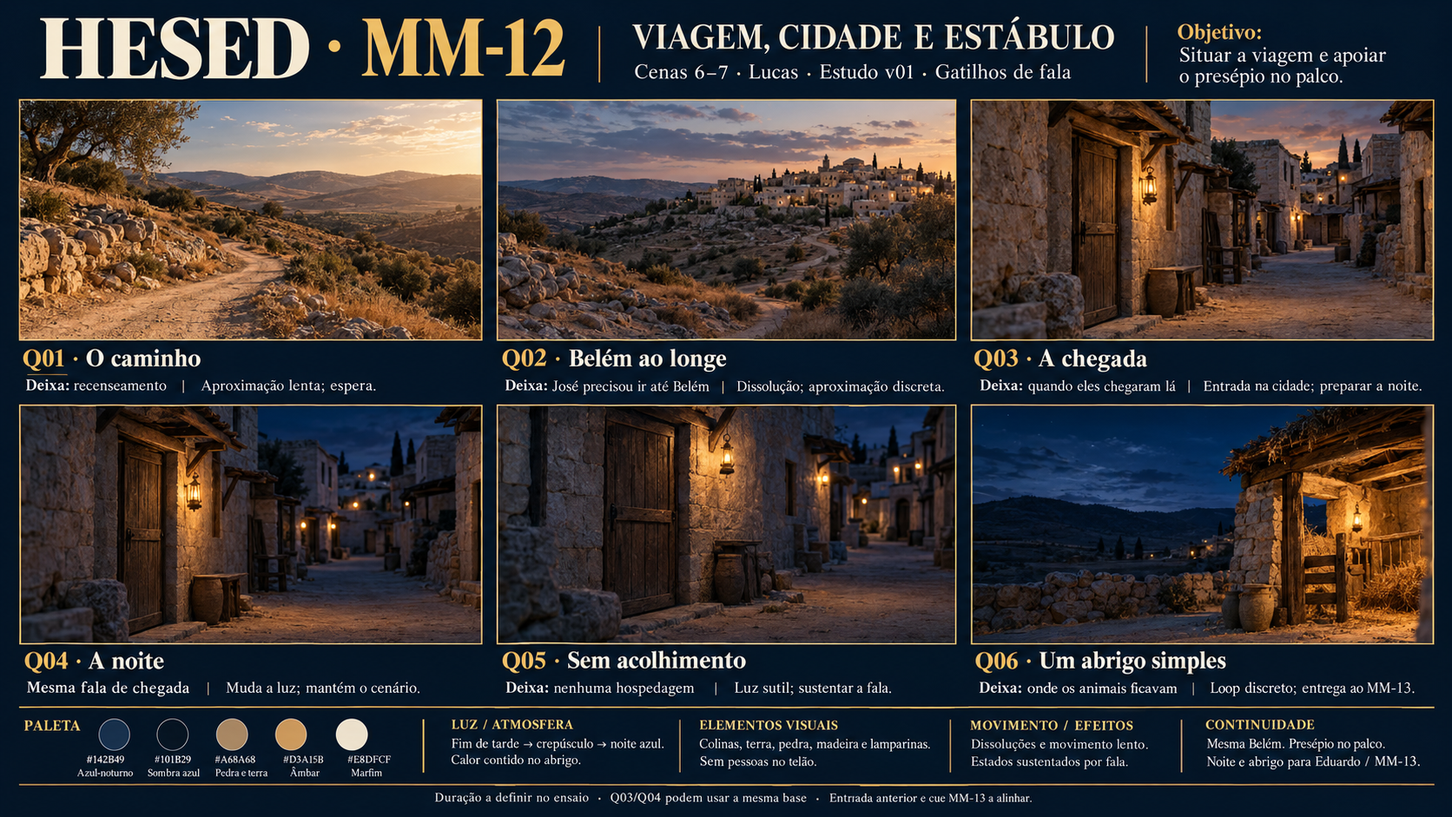
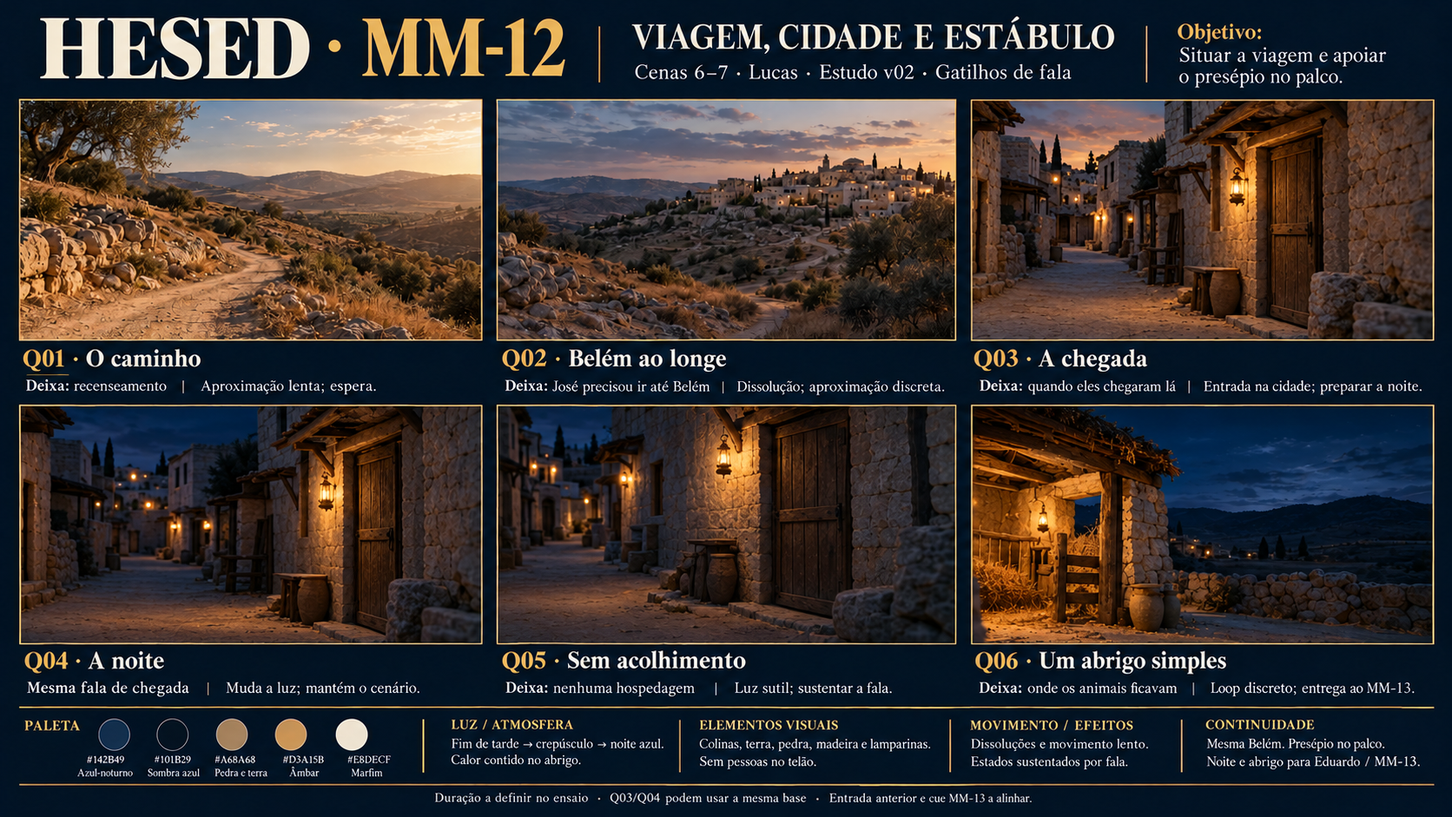
Corrige continuidade MM-12 com estábulo à esquerda e caminho espelhado

diff --git a/storyboards/briefings-dos-quadros.md b/storyboards/briefings-dos-quadros.md
@@ -1126,7 +1126,9 @@ Referência única V03, aprovada pelo usuário ao reenviar a imagem com renda; v
 
 ## MM-12 · Viagem, cidade e estábulo
 
-**Estudo v01 · 24/10/2026 · Codex, a pedido do usuário; aprovação pendente.** Responsável: Lucas. Cenas 6–7. [Ficha-resumo](MM-12/README.md).
+**Estudo v02 · 24/10/2026 · Codex, a pedido do usuário; aprovação pendente.** Responsável: Lucas. Cenas 6–7. [Ficha-resumo](MM-12/README.md).
+
+**Direção espacial D-44 (24/10/2026):** usuário determina Q03/Q04/Q05 espelhados, caminho diagonal da direita para a esquerda e Q06 com estábulo à esquerda da imagem, por logística do palco. Q01/Q02 permanecem. Inverter também fontes de luz e objetos junto dos ambientes, sem espelhar títulos/legendas. Direção confirmada, nova imagem ainda não aprovada.
 
 **Contrato visual proposto:** sequência narrativa espacial controlada por falas variáveis. Palco contém Maria/José, presépio e nascimento; telão situa ambientes. Pessoas são opcionais pelo briefing; neste estudo não são previstas. Não duplicar bebê/manjedoura no fundo. Seis estados: estrada → Belém → cidade → noite → sem hospedagem → abrigo. Sem música própria, segundos ou forma de onda. Q03/Q04 podem ser a mesma base em dois estados de luz.
 
@@ -1138,7 +1140,7 @@ Referência única V03, aprovada pelo usuário ao reenviar a imagem com renda; v
 
 ### MM-12-Q01 · O caminho
 
-- **Situação / função visual:** proposta v01; sequência de ambientes. Instalar distância e deslocamento no recenseamento.
+- **Situação / função visual:** proposta v02; sequência de ambientes. Instalar distância e deslocamento no recenseamento.
 - **Palco / pessoas no telão:** montagem e atuação do núcleo bíblico no palco; pessoas não previstas nesta proposta, opcionais pelo briefing.
 - **Imagem-base:** Estrada sinuosa de terra entre colinas secas da Judeia, sem pessoas, cidade ainda não visível.
 - **Composição:** Plano geral, câmera baixa moderada, trilha do canto inferior esquerdo ao horizonte direito; camadas simples e margem para reenquadrar.
@@ -1148,7 +1150,7 @@ Referência única V03, aprovada pelo usuário ao reenviar a imagem com renda; v
 - **Gatilho / tempo:** “Naquela época, foi decretado...” e espera no comentário sobre organização política. Duração a definir no ensaio, sem segundos medidos.
 - **Evitar:** Caravanas, protagonistas, decreto escrito, castelos, humor ou viagem acelerada.
 - **Referências reais:** MM-07-Q01.JPG e MM-13-Q01.JPG inspecionados; sem bases individuais de MM-12 aceitas.
-- **Arquivo / versão / feedback:** briefing v01; base individual não gerada. Incluído na [prancha v01](<MM-12/STB MM12.png>), PNG 1672 × 941; aprovação pendente.
+- **Arquivo / versão / feedback:** briefing v02; base individual não gerada. Incluído na [prancha v02](<MM-12/STB MM12.png>), PNG 1672 × 941; aprovação pendente.
 
 **Prompt proposto da imagem-base (ainda não enviado individualmente):**
 
@@ -1156,45 +1158,45 @@ Referência única V03, aprovada pelo usuário ao reenviar a imagem com renda; v
 
 ### MM-12-Q02 · Belém ao longe
 
-- **Situação / função visual:** proposta v01; sequência de ambientes. Identificar destino da viagem sem encenar Maria e José.
+- **Situação / função visual:** proposta v02; sequência de ambientes. Identificar destino da viagem sem encenar Maria e José.
 - **Palco / pessoas no telão:** montagem e atuação do núcleo bíblico no palco; pessoas não previstas nesta proposta, opcionais pelo briefing.
 - **Imagem-base:** Povoado compacto de pedra clara no terço direito de uma encosta; estrada de Q01 conduz até ele, poucas luzes âmbar.
 - **Composição:** Plano geral elevado, caminho em primeiro plano, cidade ao fundo, céu amplo sem destaque sobrenatural.
 - **Luz e cor:** Fim de tarde mais frio que Q01; luz suave pela direita, brilho quente discreto em poucas aberturas.
-- **Continuidade:** Mesmo relevo, materiais e sentido de Q01; a cidade deverá orientar a rua de Q03.
+- **Continuidade:** Mesmo relevo, materiais e sentido de Q01; Q03 passa ao interior da cidade com percurso invertido da direita para a esquerda por D-44.
 - **Animação e transição:** Dissolução e aproximação lenta na entrada; estabilizar para esperar; sem atravessar o destino durante o loop.
 - **Gatilho / tempo:** “José, que era noivo de Maria, precisou ir até Belém…”; sustentar a interrupção sobre gravidez. Duração a definir no ensaio, sem segundos medidos.
 - **Evitar:** Rio ou torres copiados da referência, arquitetura medieval, personagens obrigatórios, estrela protagonista.
 - **Referências reais:** MM-07-Q01.JPG e MM-13-Q01.JPG inspecionados; sem bases individuais de MM-12 aceitas.
-- **Arquivo / versão / feedback:** briefing v01; base individual não gerada. Incluído na [prancha v01](<MM-12/STB MM12.png>), PNG 1672 × 941; aprovação pendente.
+- **Arquivo / versão / feedback:** briefing v02; base individual não gerada. Incluído na [prancha v02](<MM-12/STB MM12.png>), PNG 1672 × 941; aprovação pendente.
 
 **Prompt proposto da imagem-base (ainda não enviado individualmente):**
 
-> Uma única imagem-base limpa MM-12-Q02, HESED 2026, realista e cinematográfica, reverente e legível à distância. Povoado compacto de pedra clara no terço direito de uma encosta; estrada de Q01 conduz até ele, poucas luzes âmbar. Plano geral elevado, caminho em primeiro plano, cidade ao fundo, céu amplo sem destaque sobrenatural. Luz: Fim de tarde mais frio que Q01; luz suave pela direita, brilho quente discreto em poucas aberturas. Mesmo relevo, materiais e sentido de Q01; a cidade deverá orientar a rua de Q03. Sem pessoas, texto, números, grade, moldura, colagem ou marcas-d'água. Sem elementos modernos ou fantasia medieval. Evitar: Rio ou torres copiados da referência, arquitetura medieval, personagens obrigatórios, estrela protagonista. Descrever um único instante; movimento será feito na edição.
+> Uma única imagem-base limpa MM-12-Q02, HESED 2026, realista e cinematográfica, reverente e legível à distância. Povoado compacto de pedra clara no terço direito de uma encosta; estrada de Q01 conduz até ele, poucas luzes âmbar. Plano geral elevado, caminho em primeiro plano, cidade ao fundo, céu amplo sem destaque sobrenatural. Luz: Fim de tarde mais frio que Q01; luz suave pela direita, brilho quente discreto em poucas aberturas. Mesmo relevo, materiais e sentido de Q01; Q03 passa ao interior da cidade com percurso invertido da direita para a esquerda por D-44. Sem pessoas, texto, números, grade, moldura, colagem ou marcas-d'água. Sem elementos modernos ou fantasia medieval. Evitar: Rio ou torres copiados da referência, arquitetura medieval, personagens obrigatórios, estrela protagonista. Descrever um único instante; movimento será feito na edição.
 
 ### MM-12-Q03 · A chegada
 
-- **Situação / função visual:** proposta v01; sequência de ambientes. Passar da paisagem ao interior da mesma cidade.
+- **Situação / função visual:** proposta v02; sequência de ambientes. Passar da paisagem ao interior da mesma cidade.
 - **Palco / pessoas no telão:** montagem e atuação do núcleo bíblico no palco; pessoas não previstas nesta proposta, opcionais pelo briefing.
-- **Imagem-base:** Rua estreita de terra entre casas baixas de pedra e reboco; porta de madeira à esquerda, percurso livre à direita, crepúsculo.
+- **Imagem-base:** Rua estreita de terra entre casas baixas de pedra e reboco; porta de madeira à direita, percurso diagonal da direita para a esquerda, crepúsculo.
 - **Composição:** Plano aberto à altura do olhar, rua em profundidade, portas e vãos legíveis; sem pessoas.
-- **Luz e cor:** Crepúsculo azul-terroso, luz residual pela direita e poucas lamparinas discretas.
-- **Continuidade:** Mesma Belém de Q02. Fixar câmera, porta esquerda, volumes e posição das lamparinas para Q04.
+- **Luz e cor:** Crepúsculo azul-terroso, luz residual pela esquerda após espelhamento e poucas lamparinas discretas.
+- **Continuidade:** Mesma Belém de Q02. Fixar câmera, porta à direita, volumes e posição das lamparinas para Q04.
 - **Animação e transição:** Dissolução de Q02; Q04 será mudança de luz desta base se possível. Não fazer troca de cidade.
 - **Gatilho / tempo:** “E quando eles chegaram lá…”; subdivisão da fala é proposta a validar. Duração a definir no ensaio, sem segundos medidos.
 - **Evitar:** Rua cheia, atores digitais, portas modernas, outra geografia ou grandes multidões.
 - **Referências reais:** MM-07-Q01.JPG e MM-13-Q01.JPG inspecionados; sem bases individuais de MM-12 aceitas.
-- **Arquivo / versão / feedback:** briefing v01; base individual não gerada. Incluído na [prancha v01](<MM-12/STB MM12.png>), PNG 1672 × 941; aprovação pendente.
+- **Arquivo / versão / feedback:** briefing v02; base individual não gerada. Incluído na [prancha v02](<MM-12/STB MM12.png>), PNG 1672 × 941; aprovação pendente.
 
 **Prompt proposto da imagem-base (ainda não enviado individualmente):**
 
-> Uma única imagem-base limpa MM-12-Q03, HESED 2026, realista e cinematográfica, reverente e legível à distância. Rua estreita de terra entre casas baixas de pedra e reboco; porta de madeira à esquerda, percurso livre à direita, crepúsculo. Plano aberto à altura do olhar, rua em profundidade, portas e vãos legíveis; sem pessoas. Luz: Crepúsculo azul-terroso, luz residual pela direita e poucas lamparinas discretas. Mesma Belém de Q02. Fixar câmera, porta esquerda, volumes e posição das lamparinas para Q04. Sem pessoas, texto, números, grade, moldura, colagem ou marcas-d'água. Sem elementos modernos ou fantasia medieval. Evitar: Rua cheia, atores digitais, portas modernas, outra geografia ou grandes multidões. Descrever um único instante; movimento será feito na edição.
+> Uma única imagem-base limpa MM-12-Q03, HESED 2026, realista e cinematográfica, reverente e legível à distância. Rua estreita de terra entre casas baixas de pedra e reboco; porta de madeira à direita, percurso diagonal da direita para a esquerda, crepúsculo. Plano aberto à altura do olhar, rua em profundidade, portas e vãos legíveis; sem pessoas. Luz: Crepúsculo azul-terroso, luz residual pela esquerda após espelhamento e poucas lamparinas discretas. Mesma Belém de Q02. Fixar câmera, porta à direita, volumes e posição das lamparinas para Q04. Sem pessoas, texto, números, grade, moldura, colagem ou marcas-d'água. Sem elementos modernos ou fantasia medieval. Evitar: Rua cheia, atores digitais, portas modernas, outra geografia ou grandes multidões. Descrever um único instante; movimento será feito na edição.
 
 ### MM-12-Q04 · A noite
 
-- **Situação / função visual:** proposta v01; sequência de ambientes. Estabelecer noite sem prolongar a fala com um novo passeio.
+- **Situação / função visual:** proposta v02; sequência de ambientes. Estabelecer noite sem prolongar a fala com um novo passeio.
 - **Palco / pessoas no telão:** montagem e atuação do núcleo bíblico no palco; pessoas não previstas nesta proposta, opcionais pelo briefing.
-- **Imagem-base:** Exatamente a rua de Q03, mesma porta à esquerda e percurso à direita; céu azul-noturno e lamparinas acesas.
+- **Imagem-base:** Exatamente a rua de Q03, mesma porta à direita e percurso da direita para a esquerda; céu azul-noturno e lamparinas acesas.
 - **Composição:** Mesma câmera, perspectiva e volumes de Q03; referência de composição a reutilizar quando existir uma base aceita.
 - **Luz e cor:** Ambiente azul-noturno, sombra azul legível, pequenos focos âmbar; evitar escurecimento que esconda as casas.
 - **Continuidade:** Não regenerar outra arquitetura; preferência por tratar a luz da base Q03.
@@ -1202,17 +1204,17 @@ Referência única V03, aprovada pelo usuário ao reenviar a imagem com renda; v
 - **Gatilho / tempo:** Entre “chegaram lá…” e “não tinha lugar pra ficar”; mesma deixa de Q03, sem pausa nova. Duração a definir no ensaio, sem segundos medidos.
 - **Evitar:** Time-lapse rápido, estrelas girando, luar incompatível, casa mudando de posição.
 - **Referências reais:** MM-07-Q01.JPG e MM-13-Q01.JPG inspecionados; sem bases individuais de MM-12 aceitas.
-- **Arquivo / versão / feedback:** briefing v01; base individual não gerada. Incluído na [prancha v01](<MM-12/STB MM12.png>), PNG 1672 × 941; aprovação pendente.
+- **Arquivo / versão / feedback:** briefing v02; base individual não gerada. Incluído na [prancha v02](<MM-12/STB MM12.png>), PNG 1672 × 941; aprovação pendente.
 
 **Prompt proposto da imagem-base (ainda não enviado individualmente):**
 
-> Uma única imagem-base limpa MM-12-Q04, HESED 2026, realista e cinematográfica, reverente e legível à distância. Exatamente a rua de Q03, mesma porta à esquerda e percurso à direita; céu azul-noturno e lamparinas acesas. Mesma câmera, perspectiva e volumes de Q03; referência de composição a reutilizar quando existir uma base aceita. Luz: Ambiente azul-noturno, sombra azul legível, pequenos focos âmbar; evitar escurecimento que esconda as casas. Não regenerar outra arquitetura; preferência por tratar a luz da base Q03. Sem pessoas, texto, números, grade, moldura, colagem ou marcas-d'água. Sem elementos modernos ou fantasia medieval. Evitar: Time-lapse rápido, estrelas girando, luar incompatível, casa mudando de posição. Descrever um único instante; movimento será feito na edição.
+> Uma única imagem-base limpa MM-12-Q04, HESED 2026, realista e cinematográfica, reverente e legível à distância. Exatamente a rua de Q03, mesma porta à direita e percurso da direita para a esquerda; céu azul-noturno e lamparinas acesas. Mesma câmera, perspectiva e volumes de Q03; referência de composição a reutilizar quando existir uma base aceita. Luz: Ambiente azul-noturno, sombra azul legível, pequenos focos âmbar; evitar escurecimento que esconda as casas. Não regenerar outra arquitetura; preferência por tratar a luz da base Q03. Sem pessoas, texto, números, grade, moldura, colagem ou marcas-d'água. Sem elementos modernos ou fantasia medieval. Evitar: Time-lapse rápido, estrelas girando, luar incompatível, casa mudando de posição. Descrever um único instante; movimento será feito na edição.
 
 ### MM-12-Q05 · Sem acolhimento
 
-- **Situação / função visual:** proposta v01; sequência de ambientes. Sugerir ausência de hospedagem sem dramatizar rejeição.
+- **Situação / função visual:** proposta v02; sequência de ambientes. Sugerir ausência de hospedagem sem dramatizar rejeição.
 - **Palco / pessoas no telão:** montagem e atuação do núcleo bíblico no palco; pessoas não previstas nesta proposta, opcionais pelo briefing.
-- **Imagem-base:** Na mesma rua noturna, porta simples de madeira fechada à esquerda, pequena lamparina e caminho lateral à direita.
+- **Imagem-base:** Na mesma rua noturna, porta simples de madeira fechada à direita, pequena lamparina e caminho lateral da direita para a esquerda.
 - **Composição:** Plano médio-aberto da fachada; porta dominante mas com leitura do percurso lateral; sem pessoas ou letreiros.
 - **Luz e cor:** Mesma noite e fontes de Q04; manter textura na madeira e nas pedras.
 - **Continuidade:** Reutilizar porta, materiais e sentido de Q03/Q04; percurso aponta para o abrigo periférico de Q06.
@@ -1220,36 +1222,46 @@ Referência única V03, aprovada pelo usuário ao reenviar a imagem com renda; v
 - **Gatilho / tempo:** “...não tinha lugar pra ficar. Nenhuma hospedagem disponível.” Sair em “...onde os animais ficavam”. Duração a definir no ensaio, sem segundos medidos.
 - **Evitar:** Placa de lotação, hospedeiro expulsando pessoas, humor, reencenação de cada tentativa de hospedagem.
 - **Referências reais:** MM-07-Q01.JPG e MM-13-Q01.JPG inspecionados; sem bases individuais de MM-12 aceitas.
-- **Arquivo / versão / feedback:** briefing v01; base individual não gerada. Incluído na [prancha v01](<MM-12/STB MM12.png>), PNG 1672 × 941; aprovação pendente.
+- **Arquivo / versão / feedback:** briefing v02; base individual não gerada. Incluído na [prancha v02](<MM-12/STB MM12.png>), PNG 1672 × 941; aprovação pendente.
 
 **Prompt proposto da imagem-base (ainda não enviado individualmente):**
 
-> Uma única imagem-base limpa MM-12-Q05, HESED 2026, realista e cinematográfica, reverente e legível à distância. Na mesma rua noturna, porta simples de madeira fechada à esquerda, pequena lamparina e caminho lateral à direita. Plano médio-aberto da fachada; porta dominante mas com leitura do percurso lateral; sem pessoas ou letreiros. Luz: Mesma noite e fontes de Q04; manter textura na madeira e nas pedras. Reutilizar porta, materiais e sentido de Q03/Q04; percurso aponta para o abrigo periférico de Q06. Sem pessoas, texto, números, grade, moldura, colagem ou marcas-d'água. Sem elementos modernos ou fantasia medieval. Evitar: Placa de lotação, hospedeiro expulsando pessoas, humor, reencenação de cada tentativa de hospedagem. Descrever um único instante; movimento será feito na edição.
+> Uma única imagem-base limpa MM-12-Q05, HESED 2026, realista e cinematográfica, reverente e legível à distância. Na mesma rua noturna, porta simples de madeira fechada à direita, pequena lamparina e caminho lateral da direita para a esquerda. Plano médio-aberto da fachada; porta dominante mas com leitura do percurso lateral; sem pessoas ou letreiros. Luz: Mesma noite e fontes de Q04; manter textura na madeira e nas pedras. Reutilizar porta, materiais e sentido de Q03/Q04; percurso aponta para o abrigo periférico de Q06. Sem pessoas, texto, números, grade, moldura, colagem ou marcas-d'água. Sem elementos modernos ou fantasia medieval. Evitar: Placa de lotação, hospedeiro expulsando pessoas, humor, reencenação de cada tentativa de hospedagem. Descrever um único instante; movimento será feito na edição.
 
 ### MM-12-Q06 · Um abrigo simples
 
-- **Situação / função visual:** proposta v01; sequência de ambientes. Preparar intimidade do nascimento e entregar noite/estábulo ao MM-13.
+- **Situação / função visual:** proposta v02; sequência de ambientes. Preparar intimidade do nascimento e entregar noite/estábulo ao MM-13.
 - **Palco / pessoas no telão:** montagem e atuação do núcleo bíblico no palco; pessoas não previstas nesta proposta, opcionais pelo briefing.
-- **Imagem-base:** Abrigo humilde de pedra e vigas à direita, entrada com pouca palha e recipiente simples; campo e céu à esquerda, sem pessoas, animais, bebê ou manjedoura projetada.
-- **Composição:** Plano geral, interior legível à direita e abertura paisagística à esquerda; faixa inferior calma para não disputar com presépio físico.
+- **Imagem-base:** Estábulo humilde de pedra e vigas à esquerda, entrada com pouca palha e recipiente simples; campo e céu à direita, sem pessoas, animais, bebê ou manjedoura projetada.
+- **Composição:** Plano geral, interior legível à esquerda e abertura paisagística à direita; faixa inferior calma para não disputar com presépio físico.
 - **Luz e cor:** Calor âmbar baixo dentro do abrigo, ambiente azul no campo; maior brilho reservado à progressão posterior do MM-13.
-- **Continuidade:** Mesmo relevo/cidade próxima e noite anteriores. Compartilhar horizonte, cor e direção de luz com Eduardo; sua referência de campo é estudo, não emenda já aceita.
+- **Continuidade:** Mesmo relevo/cidade próxima e noite anteriores. Compartilhar estábulo à esquerda, campo à direita, horizonte, cor e direção de luz com Eduardo; sua referência de campo é estudo, não emenda já aceita.
 - **Animação e transição:** Dissolução de Q05; câmera estabilizada e variação ambiental cíclica. MM-13 poderá revelar o campo na mesma noite, após cue combinado.
 - **Gatilho / tempo:** “...onde os animais ficavam”; sustentar “um estábulo mesmo?”, o diálogo seguinte e “Maria deu à luz ali mesmo…”. Anúncio aos pastores é MM-13. Duração a definir no ensaio, sem segundos medidos.
 - **Evitar:** Presépio completo duplicado, bebê, anjos, pastores, estrela brilhante, palácio ou glória antecipada.
 - **Referências reais:** MM-07-Q01.JPG e MM-13-Q01.JPG inspecionados; sem bases individuais de MM-12 aceitas.
-- **Arquivo / versão / feedback:** briefing v01; base individual não gerada. Incluído na [prancha v01](<MM-12/STB MM12.png>), PNG 1672 × 941; aprovação pendente.
+- **Arquivo / versão / feedback:** briefing v02; base individual não gerada. Incluído na [prancha v02](<MM-12/STB MM12.png>), PNG 1672 × 941; aprovação pendente.
 
 **Prompt proposto da imagem-base (ainda não enviado individualmente):**
 
-> Uma única imagem-base limpa MM-12-Q06, HESED 2026, realista e cinematográfica, reverente e legível à distância. Abrigo humilde de pedra e vigas à direita, entrada com pouca palha e recipiente simples; campo e céu à esquerda, sem pessoas, animais, bebê ou manjedoura projetada. Plano geral, interior legível à direita e abertura paisagística à esquerda; faixa inferior calma para não disputar com presépio físico. Luz: Calor âmbar baixo dentro do abrigo, ambiente azul no campo; maior brilho reservado à progressão posterior do MM-13. Mesmo relevo/cidade próxima e noite anteriores. Compartilhar horizonte, cor e direção de luz com Eduardo; sua referência de campo é estudo, não emenda já aceita. Sem pessoas, texto, números, grade, moldura, colagem ou marcas-d'água. Sem elementos modernos ou fantasia medieval. Evitar: Presépio completo duplicado, bebê, anjos, pastores, estrela brilhante, palácio ou glória antecipada. Descrever um único instante; movimento será feito na edição.
+> Uma única imagem-base limpa MM-12-Q06, HESED 2026, realista e cinematográfica, reverente e legível à distância. Estábulo humilde de pedra e vigas à esquerda, entrada com pouca palha e recipiente simples; campo e céu à direita, sem pessoas, animais, bebê ou manjedoura projetada. Plano geral, interior legível à esquerda e abertura paisagística à direita; faixa inferior calma para não disputar com presépio físico. Luz: Calor âmbar baixo dentro do abrigo, ambiente azul no campo; maior brilho reservado à progressão posterior do MM-13. Mesmo relevo/cidade próxima e noite anteriores. Compartilhar estábulo à esquerda, campo à direita, horizonte, cor e direção de luz com Eduardo; sua referência de campo é estudo, não emenda já aceita. Sem pessoas, texto, números, grade, moldura, colagem ou marcas-d'água. Sem elementos modernos ou fantasia medieval. Evitar: Presépio completo duplicado, bebê, anjos, pastores, estrela brilhante, palácio ou glória antecipada. Descrever um único instante; movimento será feito na edição.
 
 ### MM-12 · Registro da geração da prancha v01
 
 - **Data / entrega:** 24/10/2026; prancha de estudo com MM-12-Q01–Q06; image_gen.
 - **Diretrizes/fontes:** contrato e seis quadros acima, guia canônico, briefing/roteiro e Bíblia/alinhamento citados na ficha. Plano textual registrado antes da chamada.
 - **Referências efetivas:** MM-07/MM07-Q01.JPG e MM-13/MM13-Q01.JPG visualmente inspecionados; nenhum arquivo anexado à chamada, que usou o contrato escrito. Não afirmar identidade geométrica comprovada com essas referências.
-- **Prompt efetivamente enviado:** [texto integral](MM-12/prompt-prancha.txt); não confundir com os seis prompts individuais propostos acima, que não foram executados.
-- **Arquivo / versão / tamanho:** [STB MM12.png](<MM-12/STB MM12.png>), v01, PNG 1672 × 941 px, aproximadamente 2,5 MB. Original da ferramenta preservado em `/workspace/generated_images/exec-b3a72f21-3cd9-40da-8dff-d520840bf321.png`; cópia no repositório com nome canônico e bytes preservados.
+- **Prompt efetivamente enviado:** [texto integral](MM-12/versoes/v01/prompt-prancha.txt); não confundir com os seis prompts individuais propostos acima, que não foram executados.
+- **Arquivo / versão / tamanho:** [STB MM12.png](<MM-12/versoes/v01/STB MM12.png>), v01, PNG 1672 × 941 px, aproximadamente 2,5 MB. Original da ferramenta preservado em `/workspace/generated_images/exec-b3a72f21-3cd9-40da-8dff-d520840bf321.png`; cópia no repositório com nome canônico e bytes preservados.
 - **Inspeção / feedback do agente:** seis quadros e blocos comuns presentes; tarde → crepúsculo → noite legível; Q03/Q04 preservam a composição; ambientes sem pessoas e sem nascimento duplicado. Conferir desenho das lamparinas/arquitetura e geografia nos pilotos; não usar miniaturas como bases finais. Cue de entrada e emenda com MM-13 permanecem pendentes.
 - **Aprovação:** pendente do usuário; animação, loops e teste LED não realizados. A inspeção não é aprovação artística.
+
+### MM-12 · Registro da edição da prancha v02
+
+- **Direção / data:** D-44, usuário, 24/10/2026: estábulo à esquerda por logística do palco, Q03–Q05 com percurso da direita para a esquerda. Direção espacial confirmada; versão resultante ainda para revisão.
+- **Diretrizes e IDs:** guia canônico, contrato atual MM-12-Q01–Q06, briefing/roteiro/Bíblia/alinhamento e D-44. Q01/Q02 mantêm conteúdo e orientação; Q03–Q06 são os painéis editados.
+- **Referência efetivamente anexada:** prancha v01, inspecionada antes da edição e preservada em [versoes/v01](<MM-12/versoes/v01/STB MM12.png>).
+- **Prompt efetivamente enviado:** [prompt atual integral](MM-12/prompt-prancha.txt); ferramenta image_gen, edição com referência local.
+- **Resultado real:** [STB MM12.png](<MM-12/STB MM12.png>), v02, PNG 1672 × 941 px. Original preservado em `/workspace/generated_images/exec-20674e79-0f8b-484b-a243-259b2d42426a.png`.
+- **Inspeção visual do agente:** fachadas/portas de Q03–Q05 à direita, caminho para a esquerda; Q06 com estábulo à esquerda e campo à direita. Q03/Q04 mantêm correspondência arquitetônica e progressão crepúsculo/noite. Texto orientado normalmente, seis IDs e blocos de direção presentes. Edição generativa não certifica preservação pixel a pixel dos demais elementos.
+- **Aprovação / limites:** revisão artística pendente; bases individuais, animação e teste LED não realizados. Compartilhar esta orientação com Eduardo ao preparar MM-13; cue exato continua a combinar.

diff --git a/storyboards/MM-12/README.md b/storyboards/MM-12/README.md
@@ -1,6 +1,6 @@
 # Storyboard · MM-12 · Viagem, cidade e estábulo
 
-**HESED 2026 · estudo v01 · 24/10/2026 · Codex, a pedido do usuário.** Proposta para revisão; sem aprovação artística ou técnica. Estilo realista e cinematográfico, reverente.
+**HESED 2026 · estudo v02 · 24/10/2026 · Codex, a pedido do usuário.** Proposta para revisão; sem aprovação artística ou técnica. Estilo realista e cinematográfico, reverente.
 
 | Campo | Definição |
 | --- | --- |
@@ -13,9 +13,11 @@
 | Controle / música | Falas de duração variável, avanço pelo operador. Sem música própria atribuída ou tempos medidos. |
 | Drive / saída | P-13; matriz/fps/codec P-01; configuração de loops P-12. |
 
-## Prancha v01
+**Correção espacial D-44:** Q03–Q05 espelhados, percurso da direita para a esquerda; Q06 com estábulo à esquerda da imagem por logística do palco. Q01/Q02 preservados. Direção solicitada pelo usuário; resultado visual ainda em revisão.
 
-![Storyboard MM-12 · estudo v01](<STB MM12.png>)
+## Prancha v02
+
+![Storyboard MM-12 · estudo v02](<STB MM12.png>)
 
 [Arquivo da prancha](<STB MM12.png>) · [Prompt efetivamente enviado](prompt-prancha.txt). PNG de 1672 × 941 px, aproximadamente 2,5 MB; prancha de planejamento, sem bases finais em 4K.
 
@@ -35,10 +37,10 @@ Os fragmentos entre aspas vêm do roteiro; a divisão visual dentro da mesma fal
 | --- | --- | --- | --- |
 | **MM-12-Q01 · O caminho** | Estrada de terra entre colinas secas, horizonte aberto; sem pessoas. | Aproximação discreta na entrada; repouso com variação ambiental cíclica. | “Naquela época, foi decretado...” Sustentar “Organização política… interessante.” |
 | **MM-12-Q02 · Belém ao longe** | Caminho conduz ao povoado de pedra clara no terço direito; fim de tarde. | Dissolução, aproximação lenta apenas na entrada. | “José, que era noivo de Maria, precisou ir até Belém…” Sustentar até o comentário sobre a gravidez. |
-| **MM-12-Q03 · A chegada** | Rua de terra da mesma cidade, casas baixas, portas simples, crepúsculo. | Dissolução para a cidade; preparar mudança de luz mantendo arquitetura. | “E quando eles chegaram lá…” Confirmar no ensaio se cabe subdividir esta fala. |
-| **MM-12-Q04 · A noite** | Mesma rua e câmera, agora azul-noturno com pequenas lamparinas âmbar. | Mudança contínua de luz; nuvens discretas, sem acelerar estrelas. | Entre “chegaram lá…” e “não tinha lugar pra ficar”. Ligada à mesma deixa de Q03, sem criar pausa na fala; pode ser fundida a Q03. |
-| **MM-12-Q05 · Sem acolhimento** | Porta fechada de madeira à esquerda; percurso lateral à direita. | Reenquadramento/dissolução; lamparina com oscilação sutil. | “...não tinha lugar pra ficar. Nenhuma hospedagem disponível.” Não repetir abertura/fechamento de portas. |
-| **MM-12-Q06 · Um abrigo simples** | Abrigo de pedra/vigas à direita; campo e céu noturno à esquerda; região inferior calma. | Dissolução; pequeno calor interior e exterior azul; loop ambiental com câmera estabilizada. | “...onde os animais ficavam.” Já no abrigo em “um estábulo mesmo?”. Sustentar “Maria deu à luz ali mesmo…”; cue exato do anúncio/MM-13 a combinar com Eduardo. |
+| **MM-12-Q03 · A chegada** | Rua da mesma cidade espelhada: porta à direita e percurso diagonal da direita para a esquerda, crepúsculo. | Dissolução para a cidade; preparar mudança de luz mantendo arquitetura. | “E quando eles chegaram lá…” Confirmar no ensaio se cabe subdividir esta fala. |
+| **MM-12-Q04 · A noite** | Mesma rua espelhada e câmera de Q03, percurso da direita para a esquerda, agora azul-noturno com pequenas lamparinas âmbar. | Mudança contínua de luz; nuvens discretas, sem acelerar estrelas. | Entre “chegaram lá…” e “não tinha lugar pra ficar”. Ligada à mesma deixa de Q03, sem criar pausa na fala; pode ser fundida a Q03. |
+| **MM-12-Q05 · Sem acolhimento** | Porta fechada de madeira à direita; percurso lateral da direita para a esquerda. | Reenquadramento/dissolução; lamparina com oscilação sutil. | “...não tinha lugar pra ficar. Nenhuma hospedagem disponível.” Não repetir abertura/fechamento de portas. |
+| **MM-12-Q06 · Um abrigo simples** | Estábulo de pedra/vigas à esquerda; campo e céu noturno à direita; região inferior calma. | Dissolução; pequeno calor interior e exterior azul; loop ambiental com câmera estabilizada. | “...onde os animais ficavam.” Já no abrigo em “um estábulo mesmo?”. Sustentar “Maria deu à luz ali mesmo…”; cue exato do anúncio/MM-13 a combinar com Eduardo. |
 
 ## Paleta · amostras propostas
 
@@ -67,8 +69,8 @@ Dissoluções, aproximação lenta só na entrada e variação ambiental cíclic
 ## Continuidade e operação
 
 - **Primeiro frame:** estrada em luz contida; entrada desde o fundo anterior pendente (P-09/P-15). Não inventar casa/viagem simultâneas.
-- **Geografia proposta:** caminho para a direita, cidade no terço direito. Q03/Q04 mantêm câmera, portas e volumes; Q06 abre para campo à esquerda. Pilotar antes de produzir a série de bases.
-- **Último frame:** abrigo quente discreto à direita, campo/céu azul à esquerda; sem nascimento duplicado. Enviar frame, paleta, horizonte, direção de luz e posição do abrigo a Eduardo no alpha.
+- **Geografia proposta:** Q01/Q02 preservados, cidade no terço direito. A partir de Q03, percurso da direita para a esquerda; Q03/Q04 mantêm câmera, portas à direita e volumes espelhados; Q05 mantém o percurso e Q06 apresenta estábulo à esquerda e campo à direita (D-44). Pilotar antes de produzir a série de bases.
+- **Último frame:** estábulo quente discreto à esquerda, campo/céu azul à direita; sem nascimento duplicado. Enviar frame, paleta, horizonte, direção de luz e posição do abrigo a Eduardo no alpha.
 - **Entrega:** MM-13 pode revelar o campo na mesma noite; forma da passagem e cue após a manjedoura a combinar, sem alterar seus quadros existentes.
 - **Espera:** avançar pela fala, não por cronômetro. Q01/Q02/Q05/Q06 sustentam interrupções; Q03/Q04 podem ser fundidos.
 - **Pendências:** P-07 segue aberta para músicas/MM-13; P-01/P-12 para técnica/operação; P-13 para mídia; P-15 para retornos da casa. Este estudo não resolve esses pontos.
@@ -77,4 +79,4 @@ Dissoluções, aproximação lenta só na entrada e variação ambiental cíclic
 
 Consultados: [guia](../guia-de-construcao.md), [caderno](../briefings-dos-quadros.md#mm-12--viagem-cidade-e-estábulo), [briefing MM-12](../../docs/briefing.md), [roteiro Cenas 6–7](../../docs/roteiro.md#cena-6-a-gravidez), [mapa](../../docs/mapa-de-cenas.md), [dependências](../../docs/dependencias.md), [Lucas](../../equipe/lucas.md), [decisões](../../docs/decisoes.md), [alinhamento](../../docs/alinhamento-das-fontes.md), [Bíblia v0.1](../../docs/fontes/HESED_Biblia_de_Producao_v0_1.md) §§2.1, 3/Cenas 6–7, 4.1, 5.1–5.2, 9/BIB-Q015–Q018. Cues BIB não são IDs de quadros. Transcrição original não recebida (P-14).
 
-Plano textual registrado antes da geração. Prancha v01 gerada com image_gen em 24/10/2026 e salva como `STB MM12.png`; prompt integral em `prompt-prancha.txt`. Referências MM-07/MM-13 consultadas visualmente, sem anexos na chamada. Inspeção visual: seis quadros, progressão tarde/noite, Q03/Q04 com composição correspondente, ausência de pessoas e blocos de direção legíveis. Ainda conferir desenho das lamparinas/arquitetura nas bases piloto e legibilidade no LED. Bases individuais, animação e teste LED não produzidos; aprovação artística pendente.
+Prancha v01 preservada no [histórico local](<versoes/v01/STB MM12.png>), com [prompt original](versoes/v01/prompt-prancha.txt). A v02 foi editada em 24/10/2026 com image_gen usando a própria v01 como referência, conforme D-44: Q03–Q05 conduzem da direita para a esquerda e Q06 tem estábulo à esquerda e campo à direita. Inspeção visual conferiu orientação dos quatro painéis e textos legíveis, sem inversão das legendas; Q01/Q02 mantêm o conteúdo e a orientação. Prompt atual integral no arquivo vinculado acima. PNG 1672 × 941 px; nenhuma identidade pixel a pixel é presumida para edição generativa. Bases individuais, animação e teste LED não produzidos; aprovação artística pendente.

diff --git a/docs/decisoes.md b/docs/decisoes.md
@@ -6,6 +6,7 @@ Tudo que foi decidido e muda como alguém trabalha. Se não está aqui, não foi
 
 | Código | Data | Decisão | Quem decidiu | Afeta | Situação |
 | --- | --- | --- | --- | --- | --- |
+| D-44 | 24/10/2026 | Usuário determina estábulo à esquerda da imagem em MM-12-Q06 por logística do palco e espelhamento horizontal dos ambientes Q03/Q04/Q05, com percurso da direita para a esquerda culminando nesse estábulo. Q01/Q02 permanecem. Atualizar a continuidade entregue a Eduardo/MM-13. Direção espacial confirmada; a prancha v02 resultante ainda exige revisão artística, sem aceite LED. | Usuário nesta conversa | Lucas/MM-12, Eduardo/MM-13 e operação | 🟢 |
 | D-43 | 21/10/2026 | Victor aprova expressamente a prévia visual silenciosa V06 da vinheta Cia LUZ/B01B: 15 s, 1920 × 1080, 30 fps e 450 quadros. A versão aprovada usa a logo raster canônica, fade-in desde o preto, redução contínua sem pausa/rebote, impacto que dispara as luzes alternadas, neblina em planos independentes e travelling de câmera através do plano da logo até a penitenciária. Por decisão de Victor, o MP4 não será colocado no repositório nesta etapa: ele fará pessoalmente a inserção da trilha e dos efeitos e depois adicionará o vídeo final. Registrar os aprendizados na skill `ai-filmmaker`; não adicionar áudio nem publicar o render por iniciativa do agente. | Victor nesta conversa | MM-02/B01B, skill ai-filmmaker e futuros motion graphics | 🟢 |
 | D-42 | 21/10/2026 | Victor fornece e canoniza a logo oficial **Cia LUZ** para o repositório e para a retomada da vinheta. Arquivo canônico: `assets/identidade/CIA-LUZ-LOGO-CANONICA.png`, PNG RGBA transparente de 2048 × 768 px, grafia “Cia LUZ”, faces em metal escuro e contornos luminosos vermelho/laranja. A animação deve usar o próprio raster como camada: não redesenhar letras, não digitar o nome com fonte e não reutilizar as propostas anteriores inspiradas visualmente na marca Marvel. Publicar diretamente na main e, depois, retomar a prévia V04 com os panoramas canônicos da prisão. A canonização da logo não aprova a animação ainda não renderizada. | Victor nesta conversa | Identidade Cia LUZ, Victor/MM-01, MM-02/B01B e todos os assistentes | 🟢 |
 | D-41 | 21/10/2026 | Usuário aprova expressamente a nova variação do panorama Q01 com todas as luzes artificiais apagadas para ser o primeiro estado do vídeo MM-01. Salvar como `MM01-Q01-ATMOSFERA-APAGADA.png`, preservando composição, arquitetura, quatro viaturas, guarita com dois guardas, grades, cancela, muro, portão e penitenciária da V06. A cena deve permanecer legível pela luz ambiente azul de madrugada e neblina, sem reflexos laranja/vermelhos; a animação parte desse estado e evolui até o panorama mestre iluminado. Incorporar ao repositório e publicar diretamente na main. | Usuário nesta conversa (nome não informado) | Victor/MM-01, animação e todos os assistentes | 🟢 |

diff --git a/storyboards/inventario-de-arquivos.md b/storyboards/inventario-de-arquivos.md
@@ -1,10 +1,10 @@
 # Inventário de storyboards e quadros
 
-Conferência atualizada em 24/10/2026 com a inclusão do estudo v01 de MM-12, preservando D-40/D-41. Abrange **55 imagens: 15 pranchas completas, 39 quadros individuais e 1 prancha de conferência**. A auditoria de nomenclatura D-28 renomeou 36 dos 48 arquivos então existentes sem alterar seus bytes; a V06 de MM-01 substituiu a prancha anterior e acrescentou quatro quadros, uma prancha de conferência e o estado inicial apagado.
+Conferência atualizada em 24/10/2026 com a revisão v02 de MM-12 e preservação de sua v01, preservando D-40/D-41. Abrange **56 imagens: 16 pranchas completas (incluindo a v01 arquivada de MM-12), 39 quadros individuais e 1 prancha de conferência**. A auditoria de nomenclatura D-28 renomeou 36 dos 48 arquivos então existentes sem alterar seus bytes; a V06 de MM-01 substituiu a prancha anterior e acrescentou quatro quadros, uma prancha de conferência e o estado inicial apagado.
 
 As duas pranchas da MM-04, em JPG e PNG, foram mantidas. As quatro pranchas da MM-03 são a composição oficial e suas três variações de luz. O nome novo não muda versão artística ou aprovação; consulte as fichas de cada peça. O inventário descreve o acervo local; a publicação remota depende do push.
 
-A prancha MM-12 v01 foi criada em 24/10/2026 como estudo, sem aprovação artística e sem bases individuais; PNG de 1672 × 941 px, aproximadamente 2,5 MB.
+A prancha MM-12 vigente é o estudo v02 de 24/10/2026, com correção espacial D-44 e aprovação artística pendente; a v01 fica arquivada em `MM-12/versoes/v01/`. Ambas são PNG de 1672 × 941 px, sem bases individuais.
 
 | Tipo | Arquivo atual | Nome anterior |
 | --- | --- | --- |
@@ -48,7 +48,8 @@ A prancha MM-12 v01 foi criada em 24/10/2026 como estudo, sem aprovação artís
 | Quadro individual | [MM-10/MM10-Q09.png](<MM-10/MM10-Q09.png>) | `MM10-Q9.png` |
 | Prancha | [MM-10/STB MM10.png](<MM-10/STB MM10.png>) | Já estava no padrão |
 | Prancha | [MM-13/STB MM13.png](<MM-13/STB MM13.png>) | Já estava no padrão |
-| Prancha | [MM-12/STB MM12.png](<MM-12/STB MM12.png>) | Novo estudo v01; origem e prompt na ficha/caderno |
+| Prancha | [MM-12/STB MM12.png](<MM-12/STB MM12.png>) | Estudo v02; Q03–Q06 espelhados conforme D-44 |
+| Prancha arquivada | [MM-12/versoes/v01/STB MM12.png](<MM-12/versoes/v01/STB MM12.png>) | Estudo v01 preservado para histórico; não usar como direção vigente |
 | Prancha | [MM-14/STB MM14.jpg](<MM-14/STB MM14.jpg>) | `prancha-v01.jpg` |
 | Prancha | [MM-16D/STB MM16D.png](<MM-16D/STB MM16D.png>) | Já estava no padrão |
 

diff --git a/STATUS.md b/STATUS.md
@@ -1,6 +1,6 @@
 # Status da produção
 
-**Última atualização:** 24/10/2026 · por Codex, a pedido do usuário (MM-12: storyboard v01 em estudo, sem aprovação)
+**Última atualização:** 24/10/2026 · por Codex, a pedido do usuário (MM-12: storyboard v02 com correção espacial D-44, sem aprovação da imagem)
 
 Cada pessoa atualiza **a própria linha** quando muda de etapa. Na dúvida sobre as etapas, veja [guias/fluxo-de-trabalho.md](guias/fluxo-de-trabalho.md).
 
@@ -21,7 +21,7 @@ Cada pessoa atualiza **a própria linha** quando muda de etapa. Na dúvida sobre
 | MM-09 | Profetas (loop) | 5 | Melissa | 🎨 | novo estudo v03 | Revisar [nova proposta](<storyboards/MM-09/STB MM09.jpg>): anúncio, espera e crença/dúvida; versões antigas excluídas (D-27) | - |
 | MM-10 | Cristo eterno / universo | 5 | Eduardo | ⬜ | - | - | - |
 | MM-11 | Luz do Mundo (playback) | 5 | Isaac | ⬜ | - | Mapear a faixa | P-02 (audio master) |
-| MM-12 | Viagem, cidade e estábulo | 6–7 | Lucas | 🎨 | estudo v01 · 6 estados | Revisar [storyboard](storyboards/MM-12/README.md), validar gatilhos no ensaio e combinar noite/abrigo com Eduardo | Entrada anterior P-09/P-15; saída técnica P-01 |
+| MM-12 | Viagem, cidade e estábulo | 6–7 | Lucas | 🎨 | estudo v02 · 6 estados · D-44 | Revisar [storyboard](storyboards/MM-12/README.md), validar gatilhos no ensaio e combinar noite/abrigo com Eduardo | Entrada anterior P-09/P-15; saída técnica P-01 |
 | MM-13 | Noite, estrela, pastores, anjos | 7 | Eduardo | ⬜ | - | - | P-07 (posição musical) |
 | MM-14 | Resumo dos pecados | 8 | Melissa | 🎨 | v01 não aprovada | Reformular após estabelecer a casa MM-03, conforme feedback do usuário/D-03 | MM-03 (ambientação) |
 | MM-15 | Vida e atos de Jesus | 8 | Lucas | ⬜ | - | - | - |

diff --git a/docs/dependencias.md b/docs/dependencias.md
@@ -12,7 +12,7 @@ Regra: **quem entrega primeiro manda o último frame (PNG em resolução final) 
 | MM-06 (Isaac) | MM-07 (Eduardo) | Frame/loop do bebê | Nasceu em Belém começa de onde a regressão parou (ver D-01) |
 | MM-09 (Melissa) | MM-10 (Eduardo) | Último estado visual dos profetas | Passagem do histórico para o cósmico |
 | MM-10 (Eduardo) | MM-11 (Isaac) | Último estado do universo/luz | Luz do Mundo nasce da luz que o MM-10 deixou |
-| MM-12 (Lucas) | MM-13 (Eduardo) | Paisagem noturna/estábulo | O nascimento cresce no mesmo espaço até a glória |
+| MM-12 (Lucas) | MM-13 (Eduardo) | Paisagem noturna/estábulo à esquerda da imagem (D-44); campo à direita | O nascimento cresce no mesmo espaço até a glória; preservar percurso Q03–Q06 da direita para a esquerda |
 | MM-14 (Melissa) | MM-15 (Lucas) | Ritmo de corte e tratamento de cor | Contraste deliberado: aprisionamento → restauração |
 | MM-02 (Victor) | MM-08 (Isaac) | Lista de takes de Goel usados | Evitar repetir as mesmas imagens (P-04) |
 | MM-16A/B/C/D | MM-16 (Lucas) | Módulos com margem nas pontas | Conform precisa de "sobra" para transicionar |
